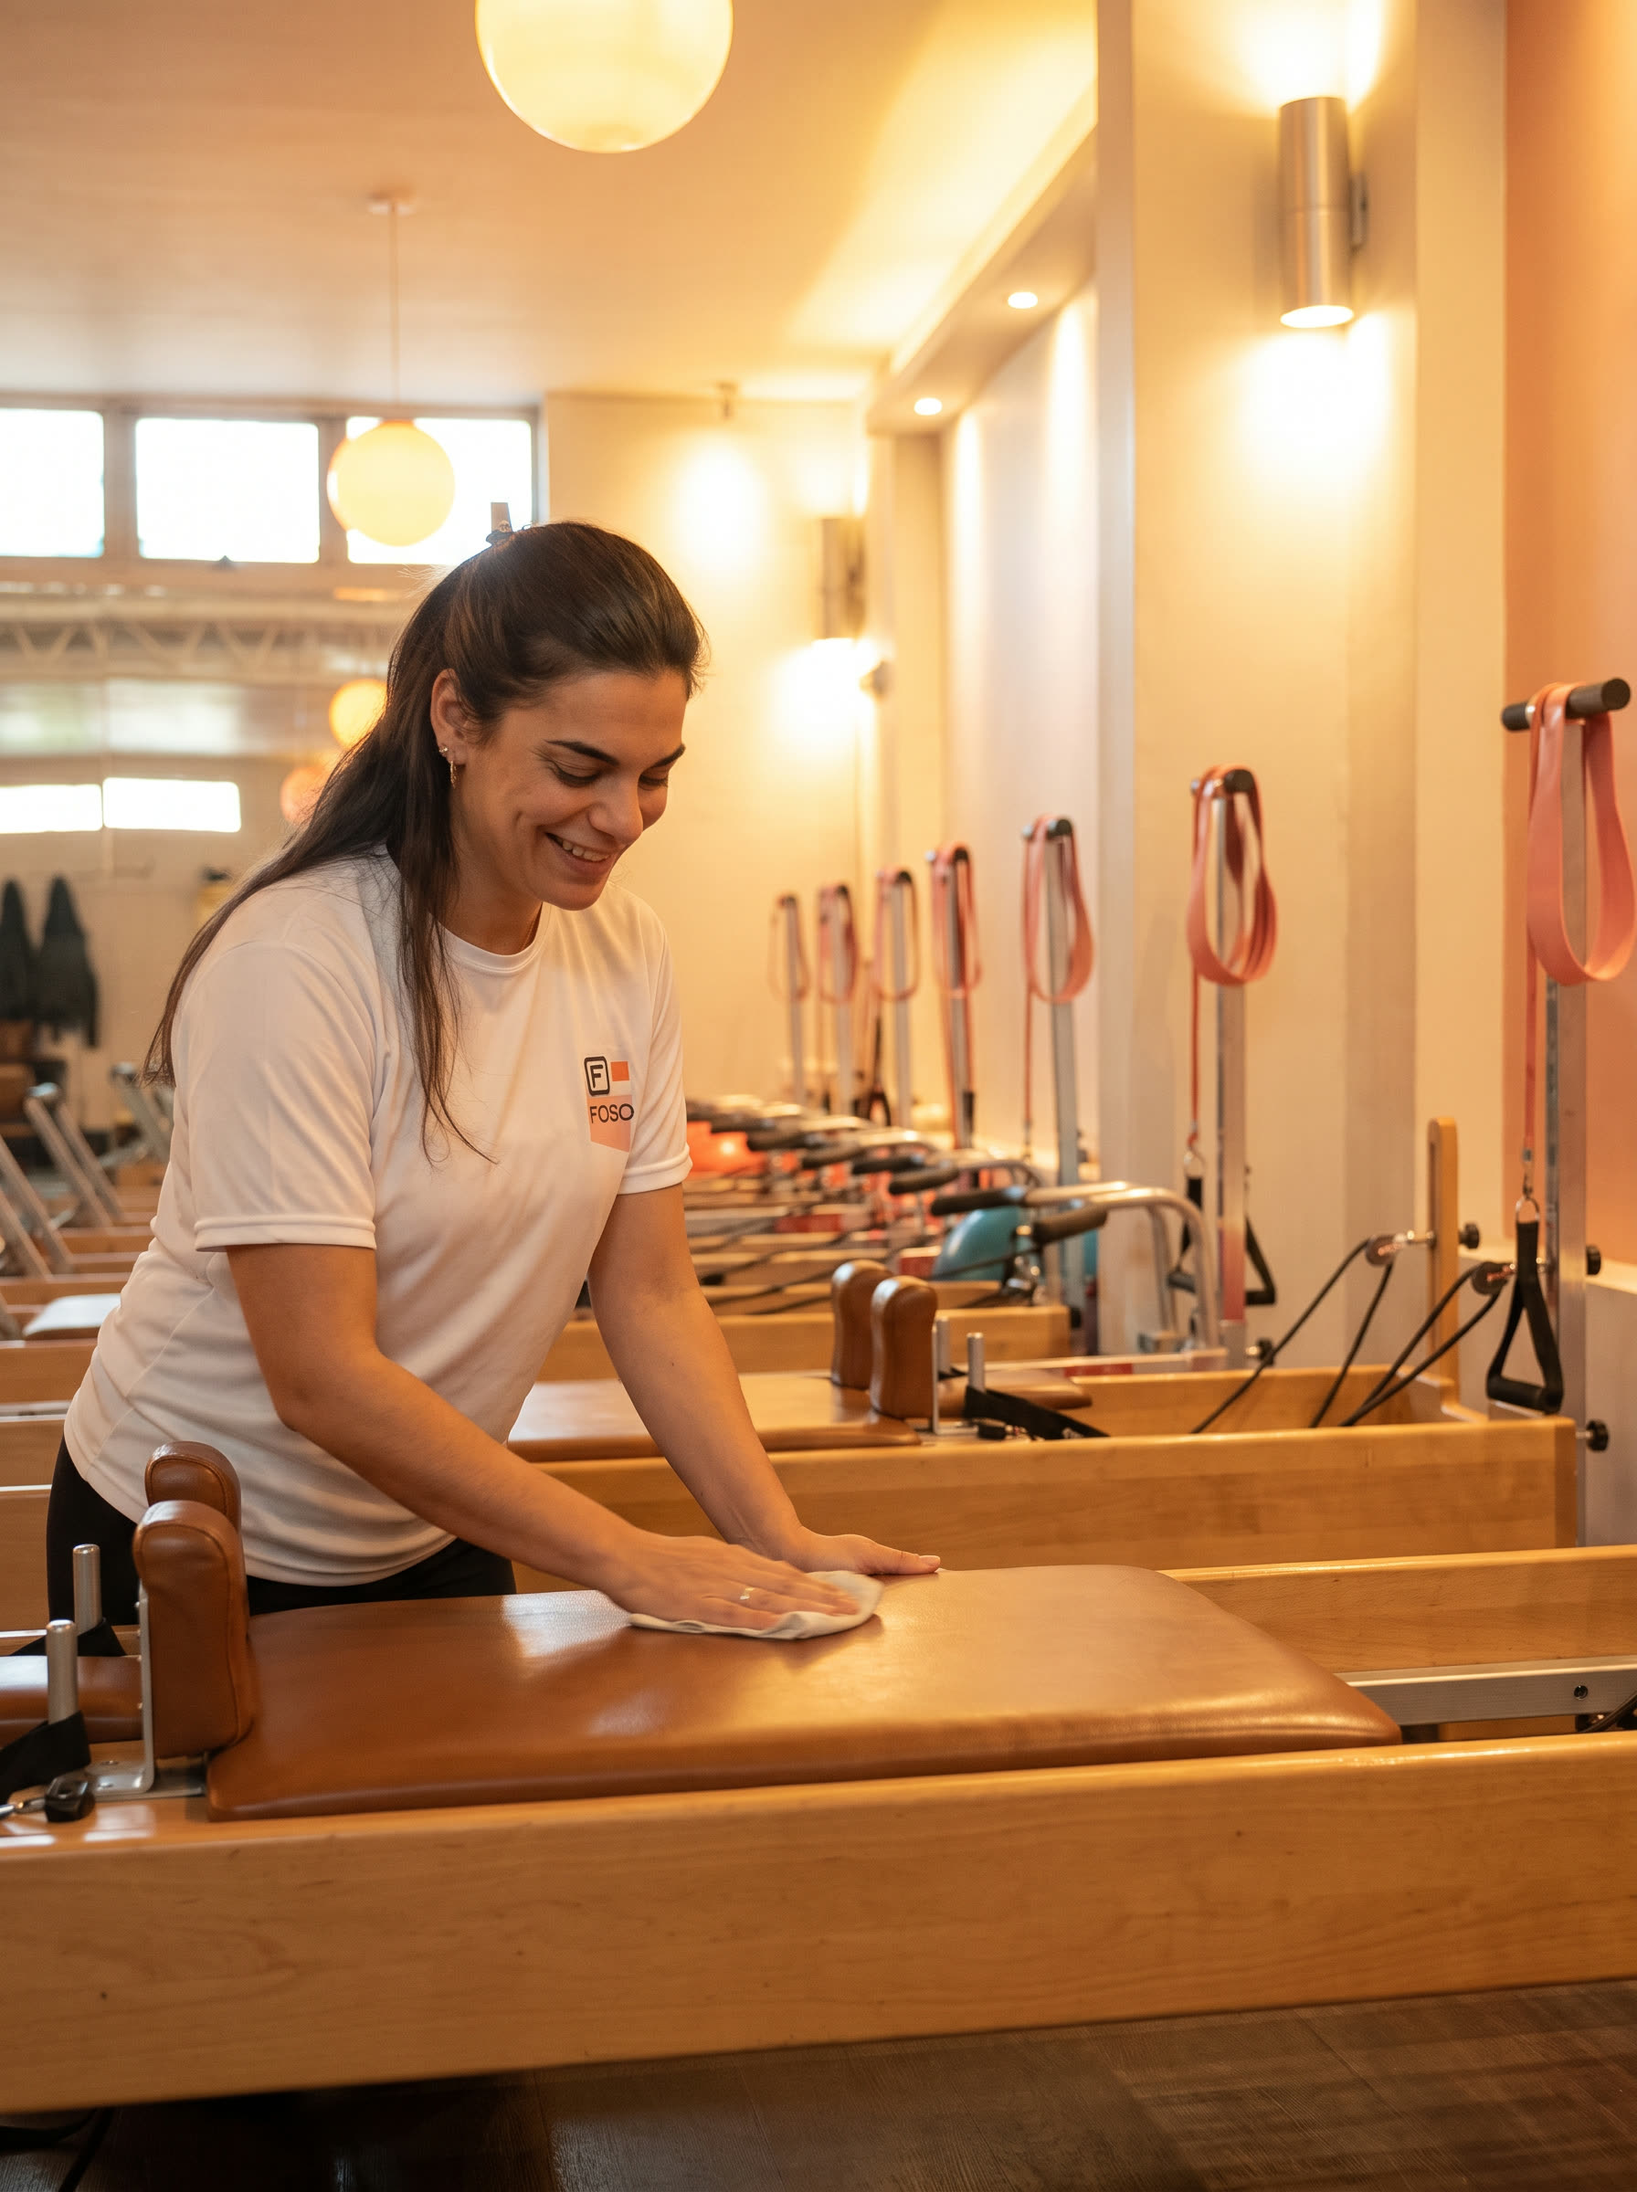
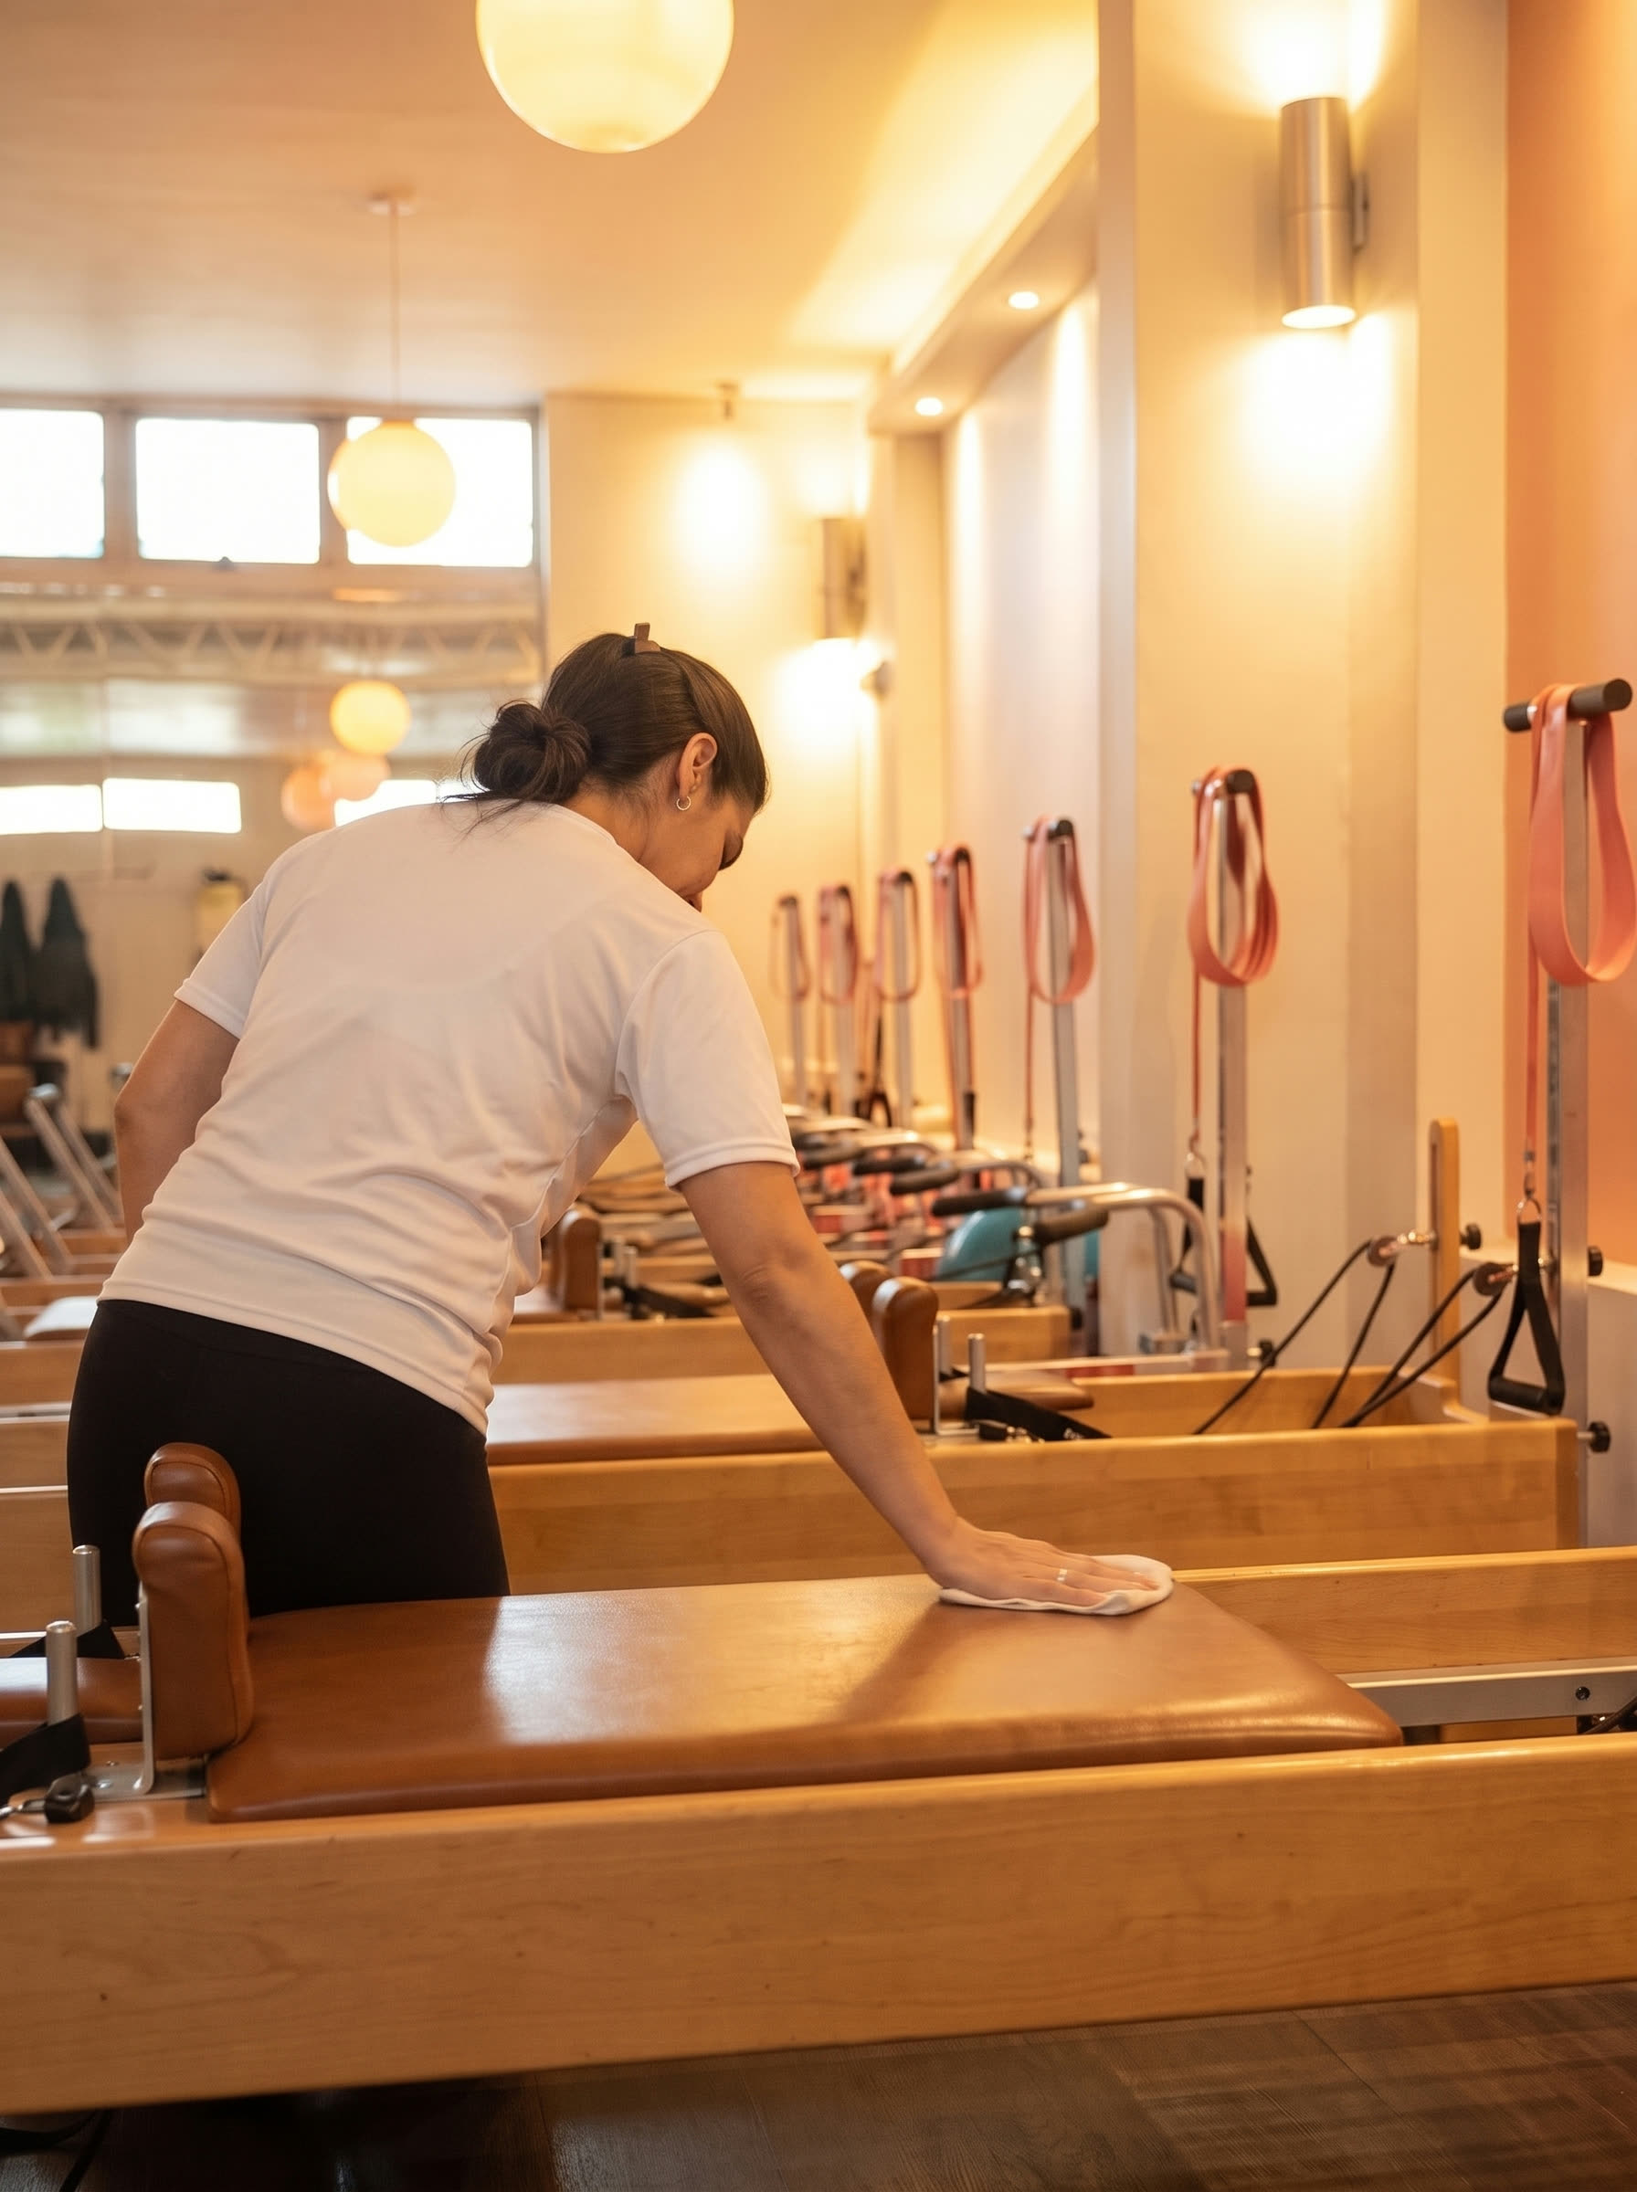
Mantenimiento: la foto va de espaldas, la cara que tenia era la de una profe
La IA saco esa cara de los frames del rodaje, donde las que aparecen son las
profesoras: mostrarla limpiando le atribuye a una persona real un puesto que no
es el suyo. Misma escena, misma luz y mismo encuadre, pero de espaldas y con la
cabeza girada hacia abajo: no se ve nada de la cara ni de perfil. De yapa, de
espaldas no se ve el logo del pecho y se esquiva la deformacion de siempre.

Regla que queda anotada en CONTINUAR: en la serie de equipo, cualquier rol que
no sea "profe" va sin cara reconocible.

diff --git a/CONTINUAR.md b/CONTINUAR.md
@@ -296,6 +296,18 @@ integrar por tandas, sede por sede, con revisión de Lautaro entre tandas.
 - Detalles menores aceptados por Lautaro: en la grupal el estampado chico dice
   "FOSQU"; en la de mantenimiento las máquinas salieron más de madera clara que
   las reales. Regenerar si el cliente los marca.
+- 🔁 **`equipo-mantenimiento.jpg` REGENERADA (27-ago, 2ª pasada)**: la mujer de
+  la v1 tenía la cara de una **profe** — la IA la sacó de los frames del rodaje,
+  donde las que aparecen son las profesoras. Poner esa cara limpiando es
+  atribuirle a una persona real un puesto que no es el suyo. La v2 es la misma
+  escena y la misma luz, pero **de espaldas y con la cabeza girada hacia abajo:
+  no se ve nada de la cara, ni de perfil**. Regla que queda: en esta serie,
+  **cualquier rol que no sea "profe" va sin cara reconocible** — de espaldas o
+  plano cerrado. Bonus: de espaldas no se ve el logo del pecho, así que se
+  esquiva la deformación de siempre. Prompt: "recreate this EXACT interior…
+  change ONLY the person, photographed strictly FROM BEHIND… no part of her face
+  is visible, not even a sliver of profile". El 2K fuente está en
+  `pruebas-ia/eq-mantenimiento.jpg` (pisó al anterior).
 
 **✅ TANDA 4 — metodo.mp4 e historia.mp4 de la home (27-ago), SIN créditos:**
 - Reemplazados por videos "Ken Burns" (zoom lento sobre still) hechos con
